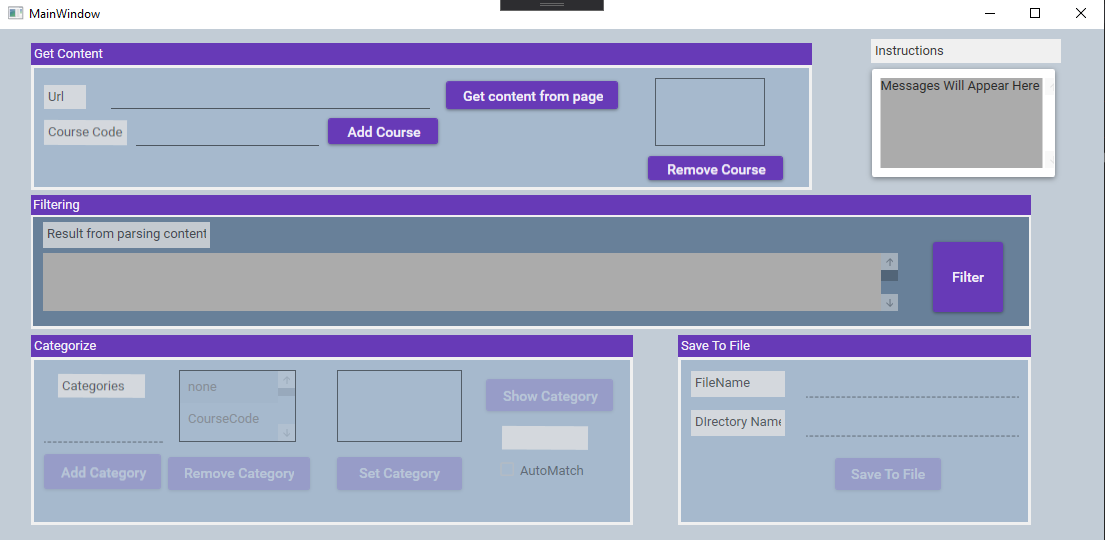
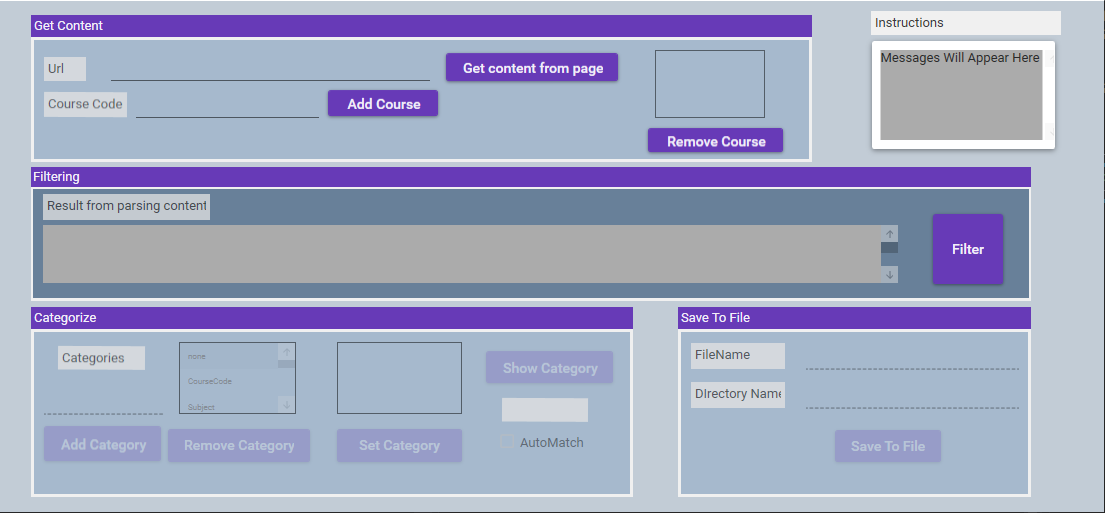
Added Comments

diff --git a/TTTestWindowed/MainWindow.xaml b/TTTestWindowed/MainWindow.xaml
@@ -152,8 +152,8 @@
                     </Label.RenderTransform>
                 </Label>
                 <CheckBox x:Name="cbAutoMatch" Content="AutoMatch" Checked="cbAutoMatch_Checked" Unchecked="cbAutoMatch_Unchecked" ToolTip="Will automatically match/categorize the correspoding element for the other courses as you perform categorization" Canvas.Left="464" Canvas.Top="100"/>
-                <ListBox x:Name="lboxSorter"  RenderTransformOrigin="0.592,0.528" BorderThickness="1" Height="72" Width="125" IsSynchronizedWithCurrentItem="True" SelectionChanged="btnGetCategory_Click" Canvas.Left="303" Canvas.Top="10" BorderBrush="#7F000000"/>
-                <ListBox x:Name="lboxCategory" RenderTransformOrigin="0.592,0.528" BorderThickness="1" Height="72" Width="117" IsSynchronizedWithCurrentItem="True" Canvas.Left="145" Canvas.Top="10" BorderBrush="#7F000000"/>
+                <ListBox x:Name="lboxSorter"  RenderTransformOrigin="0.592,0.528" BorderThickness="1" Height="72" Width="125" IsSynchronizedWithCurrentItem="True" SelectionChanged="btnGetCategory_Click" Canvas.Left="303" Canvas.Top="10" BorderBrush="#7F000000" FontSize="8"/>
+                <ListBox x:Name="lboxCategory" RenderTransformOrigin="0.592,0.528" BorderThickness="1" Height="72" Width="117" IsSynchronizedWithCurrentItem="True" Canvas.Left="145" Canvas.Top="10" BorderBrush="#7F000000" FontSize="8"/>
             </Canvas>
         </GroupBox>
 

diff --git a/TTTestWindowed/MainWindow.xaml.cs b/TTTestWindowed/MainWindow.xaml.cs
@@ -16,29 +16,38 @@ namespace TTTestWindowed
     /// </summary>
     public partial class MainWindow : Window
     {
-        List<UIElement> catogorizationGroup;
+        List<UIElement> catogorizationGroup;        // a list of UI elemnets that will be treated as a group to disable/enable before/after the user is ready to start categorizing the course info
+
+        List<string> courseList;                    // a list to store the course codes to search for in the retrieved html page
+        List<string> categoryList;                  // a list to store the categories that will be used when categorizing the course info that will be found
 
 
-        List<string> courseList;
-        List<string> categoryList;
-        List<Dictionary<string,string>> courseInfo;
-        //List<int> lboxSorterCategories; // parellel to the items in lboxSorter/regextResult
+        List<Dictionary<string,string>> courseInfo; // stores the course info before it is saved to the file, each dictionary is a course of key/value pairs, keys are category/fieldname, values are the details/fieldvalues
+        
 
-        List<GCalenderEntry> courses;
-        //List<string> regexResult;    // used for storing the result from the regex filter
-        List<int> regexResultCourseIndicator;
-        //List<KeyValuePair<string, int>> sortList;
-        SortListItemCollection sortList;
-        int numberOfDefaultCategories;
-        string htmlContentField;
+        List<GCalenderEntry> courses;               // not used
+        List<int> regexResultCourseIndicator;       
+        SortListItemCollection sortList;            // SortListItemCollection is defiend below. This is used to store the items that the user will be categorizing, which is the course details retrieved from the html parser once the filter button is clicked
+        int numberOfDefaultCategories;              // the number of pre-initialized catergories by the program. It is used when removing categorized to prevent user from deleting the defaults categories
+        string htmlContentField;                    // the content that is retrieved from the htmp page after parsing it for any text
 
-        public bool IntelligentMatch { get; set; }
+        public bool IntelligentMatch { get; set; }  // used for an auto-categorization feature, to intelligently categorize the courses details as the user categorizes the first 
 
+        /// <summary>
+        /// An inner class meant to act as a container for the items in the lboxSorter (ListBoxSorter) Control and will be binded as the itemsource to the control
+        /// </summary>
         public class SortListItemCollection : IEnumerable<string>
         {
+            // Fields
+
+            // both fields are below are parallel 
+            // They both will hold the same collction of items 
+            // and should both be updated if either one are updated
             List<KeyValuePair<string, int>> keyValuePairs;
             List<string> keys;
            
+            // Properties
+
             public KeyValuePair<string,int> this[int index]
             {
                 get => keyValuePairs[index];
@@ -50,21 +59,15 @@ namespace TTTestWindowed
 
             public int Count { get => keys.Count; }
 
+            // Constructor
             public SortListItemCollection()
             {
                 keyValuePairs = new List<KeyValuePair<string, int>>();
                 keys = new List<string>();
 
             }
-            public IEnumerator<string> GetEnumerator()
-            {
-                return keys.GetEnumerator();
-            }
 
-            IEnumerator IEnumerable.GetEnumerator()
-            {
-                return this.GetEnumerator();
-            }
+            // Methods
 
             internal void Clear()
             {
@@ -77,19 +80,33 @@ namespace TTTestWindowed
                 keyValuePairs.Add(keyValuePair);
                 keys.Add(keyValuePair.Key);
             }
+
+            public IEnumerator<string> GetEnumerator()
+            {
+                return keys.GetEnumerator();
+            }
+
+            IEnumerator IEnumerable.GetEnumerator()
+            {
+                return this.GetEnumerator();
+            }
+
         }
 
-
+        /// <summary>
+        /// Performs all the necessary bindings that are needed before the program runs
+        /// such as attaching the itemsource to any list box control
+        /// </summary>
         private void SetupBindings()
         {
             courseList = new List<string>();
             lboxCourses.ItemsSource = courseList;
 
 
-            categoryList = new List<string>() { "none", "CourseCode" };
-            categoryList.AddRange(GCalenderEntry.defField);
-            numberOfDefaultCategories = categoryList.Count;
-            lboxCategory.ItemsSource = categoryList;
+            categoryList = new List<string>() { "none", "CourseCode" };     // add two initial default field into the category list, that the user will need to use when categorizing the course details
+            categoryList.AddRange(GCalenderEntry.defField);                 // add the default field which are the common fields that google calender import tool recognizes as fields for an event
+            numberOfDefaultCategories = categoryList.Count;                 
+            lboxCategory.ItemsSource = categoryList;                        
 
             //sortList = new List<KeyValuePair<string, int>>();
             sortList = new SortListItemCollection();
@@ -131,6 +148,10 @@ namespace TTTestWindowed
             tblockInstructions.Text = "Messages Will Appear Here";
         }
 
+        /// <summary>
+        /// Being common operation for this application, this generic method takes a list box that has a binded list and adds an item to it.
+        /// It will also scroll the list box to the item that was recently added 
+        /// </summary>
         private void AddItemToScrollList<T>(T item, ListBox listBox, List<T> bindedList)
         {
             bindedList.Add(item);
@@ -140,13 +161,19 @@ namespace TTTestWindowed
             listBox.ScrollIntoView(listBox.SelectedItem);
         }
 
+
+        /// <summary>
+        /// Being common operation for this application, this generic method takes a list box that has a binded list and removes an item at an index. 
+        /// </summary>
         private void RemoveItemFromScrollList<T>(int removeIndex, ListBox listBox, List<T> bindedList)
         {
             bindedList.RemoveAt(removeIndex);
             listBox.Items.Refresh();
             
         }
-
+        /// <summary>
+        /// Not used
+        /// </summary>
         private void AddItemToScrollList<T>(T item, ScrollViewer viewer, ListBox listBox, List<T> bindedList)
         {
             bindedList.Add(item);
@@ -156,6 +183,9 @@ namespace TTTestWindowed
             listBox.ScrollIntoView(listBox.SelectedItem);
         }
 
+        /// <summary>
+        /// Not used
+        /// </summary>
         private void RemoveItemFromScrollList<T>(int removeIndex, ScrollViewer viewer, ListBox listBox, List<T> bindedList)
         {
             bindedList.RemoveAt(removeIndex);
@@ -163,14 +193,20 @@ namespace TTTestWindowed
             viewer.UpdateLayout();
         }
 
+        /// <summary>
+        /// Resets a list of text box UI elemnts
+        /// </summary>
         private void ResetTextSubControlGroup(List<TextBox> uIElements)
         {
             foreach (TextBox tb in uIElements)
             {
                 tb.Clear();
             }
-        }
 
+        }
+        /// <summary>
+        /// Resets a list of list box UI elemnts
+        /// </summary>
         private void ResetListSubControlGroup<T>(List<ListBox> uIElements)
         {
             foreach (ListBox lb in uIElements)
@@ -180,6 +216,9 @@ namespace TTTestWindowed
             }
         }
 
+        /// <summary>
+        /// Resets all the controls that are part of the categorization controls group. Clears text boxes and list boxes.  
+        /// </summary>
         private void ResetCatogorizationControls()
         {
 
@@ -206,6 +245,9 @@ namespace TTTestWindowed
 
         }
 
+        /// <summary>
+        /// Resets all the controls that are part of the sorting controls group  
+        /// </summary>
         private void ResetSortingControls()
         {
             //regexResult.Clear();
@@ -216,6 +258,9 @@ namespace TTTestWindowed
             regexResultCourseIndicator.Clear();
         }
 
+        /// <summary>
+        /// Resets all the controls that are part of the courses controls group  
+        /// </summary>
         private void ResetCoursesControls()
         {
             courseList.Clear();
@@ -240,11 +285,18 @@ namespace TTTestWindowed
             }
         }
 
+        /// <summary>
+        /// Checks if an index is within bound of a list 
+        /// </summary>
         private bool WithinBoundsOfItems<T>(int index, List<T> list)
         {
             return (index >= 0 && index < list.Count);
         }
 
+        /// <summary>
+        /// Given an index(of an item in the sortList collection), check what the corresponding course is.
+        /// Returns the index corresponding to where the course is found relative to the other courses on the html page. Otherwise it returns -1.
+        /// </summary>
         private int FindCorrespondingCourse(int index)
         {
             if (index < 0) 
@@ -271,7 +323,9 @@ namespace TTTestWindowed
         #endregion
 
 
-
+        /// <summary>
+        /// Retrives the html content from the page specified in tbUrl(textbox Url). 
+        /// </summary>
         private void btnGetHTML_Click(object sender, RoutedEventArgs e)
         {
             ResetInstructions();
@@ -313,7 +367,9 @@ namespace TTTestWindowed
 
         }
 
-
+        /// <summary>
+        /// Adds a course to the list of courses to search for - courseList. 
+        /// </summary>
         private void btnAddCourse_Click(object sender, RoutedEventArgs e)
         {
             ResetInstructions();
@@ -328,6 +384,9 @@ namespace TTTestWindowed
         }
 
 
+        /// <summary>
+        /// Removes the selected course from the list of courses to search for - courseList. 
+        /// </summary>
         private void btnRemoveCourse_Click(object sender, RoutedEventArgs e)
         {
             var item = lboxCourses.SelectedIndex;
@@ -337,6 +396,9 @@ namespace TTTestWindowed
             }
         }
 
+        /// <summary>
+        /// Performs a filter of the html page given the list of course to search for their relevant details.
+        /// </summary>
         private void btnFilter_Click(object sender, RoutedEventArgs e)
         {
 
@@ -439,6 +501,9 @@ namespace TTTestWindowed
             tbCategory.Clear();
         }
 
+        /// <summary>
+        /// Set the currently selected item in lboxSorter to the selected category in lboxCategory
+        /// </summary>
         private void btnSetCategory_Click(object sender, RoutedEventArgs e)
         {
             ResetInstructions();
@@ -518,7 +583,9 @@ namespace TTTestWindowed
 
         }
 
- 
+        /// <summary>
+        /// Shows the current category of the item selected in lboxSorter
+        /// </summary>
         private void btnGetCategory_Click(object sender, RoutedEventArgs e)
         {
             ResetInstructions();
@@ -532,12 +599,12 @@ namespace TTTestWindowed
                 tblockInstructions.Text = "Make sure to select the item to retrieve the category of in the list.";
                 return;
             }
-            //var category = lboxSorterCategories[index];
+            
             var category = sortList[index].Value;
             if (!WithinBoundsOfItems(category, categoryList))
             {
                 tblockInstructions.Text = "Something went wrong retrieveing the saved category.";
-                //lboxSorterCategories[index] = 0;
+                
                 sortList[index] = new KeyValuePair<string, int>(sortList[index].Key, 0);
 
                 return;
@@ -555,14 +622,12 @@ namespace TTTestWindowed
                 lboxCategory.ScrollIntoView(lboxCategory.SelectedItem);
             }
             
-            lboxSorter.Items.Refresh();
-            lboxSorter.UpdateLayout();
-            lboxSorter.ScrollIntoView(lboxCategory.SelectedItem);
-
 
         }
 
-
+        /// <summary>
+        /// Saves the content onto a file and directory specified by the user
+        /// </summary>
         private void btnSave_Click(object sender, RoutedEventArgs e)
         {
             ResetInstructions();
